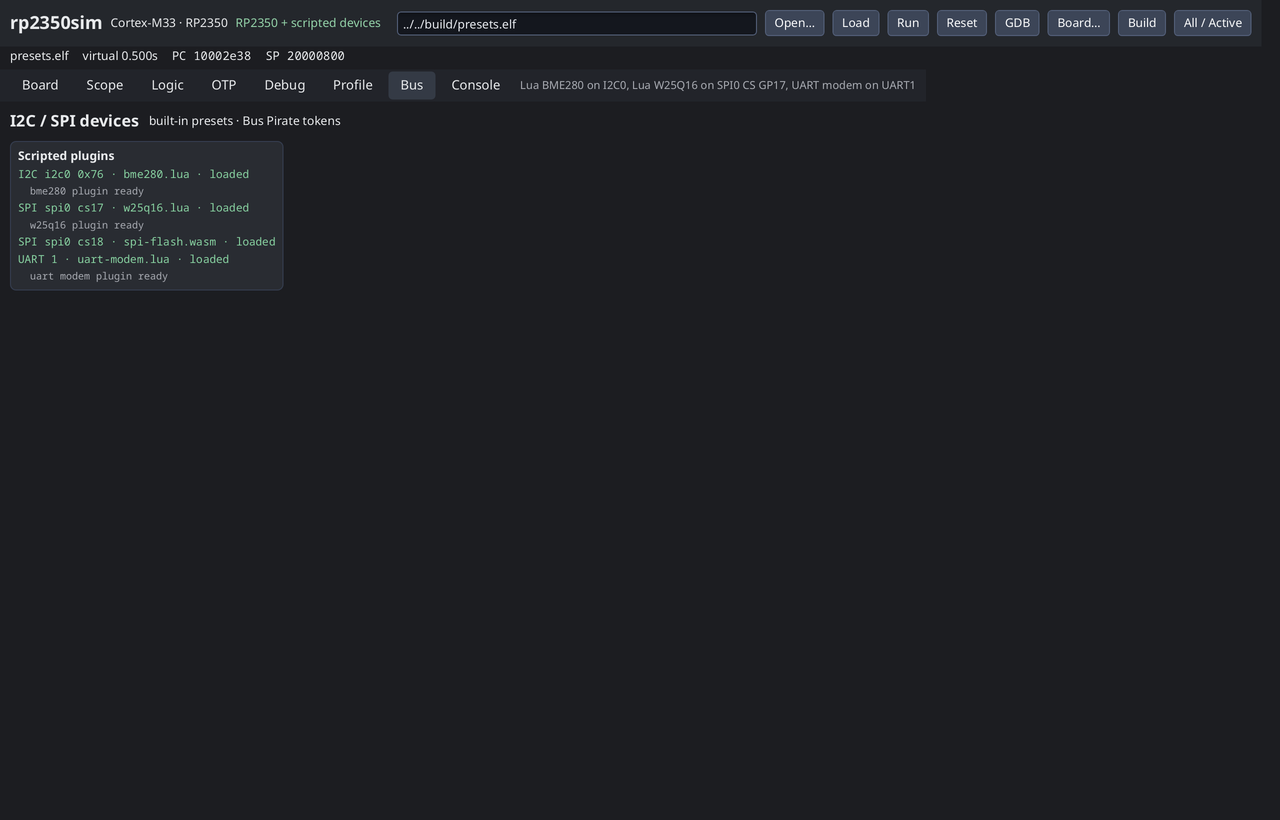
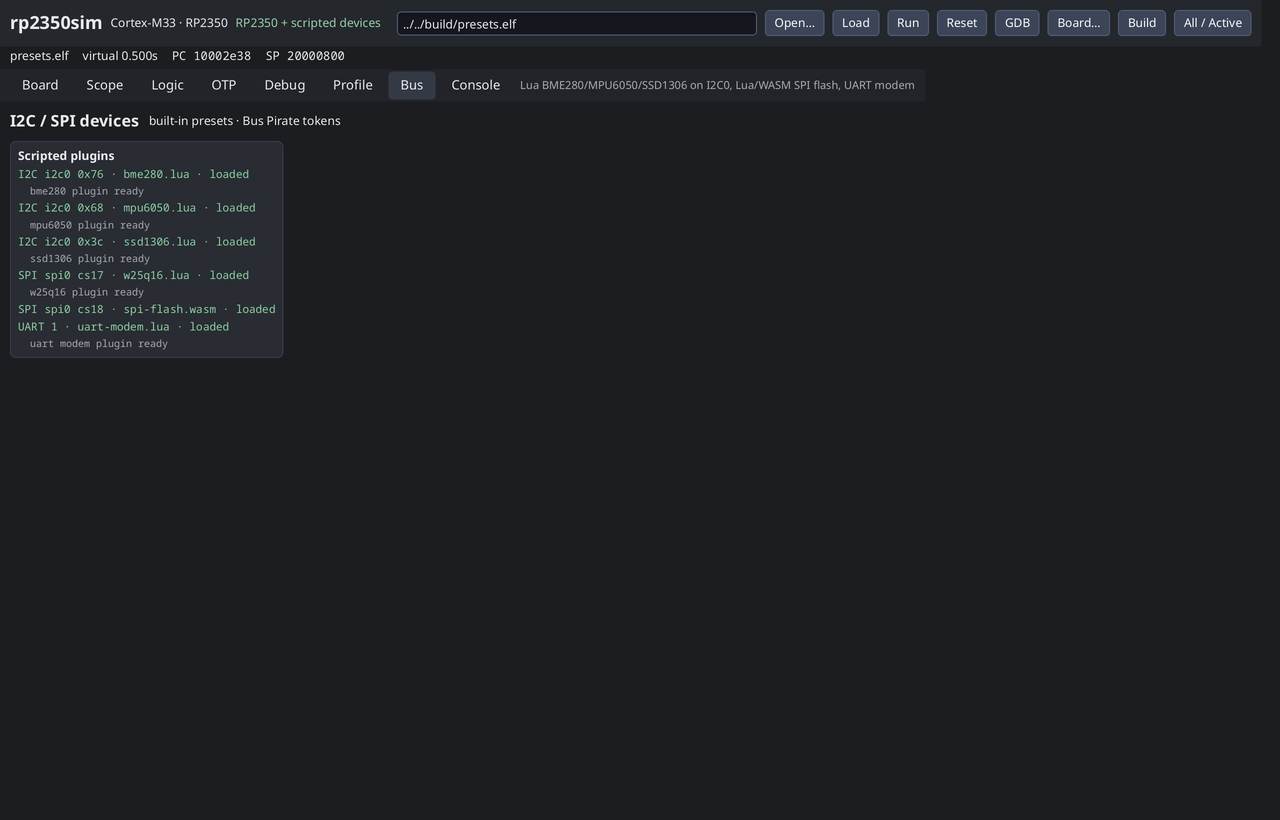
plugins: complete the pico2-plugins preset probe
The presets firmware probes BME280, MPU6050, SSD1306 and W25Q16. The
pico2-plugins board only attached the BME280 and flash, so the two missing
addresses correctly NACKed and the console looked broken.

Add Lua MPU6050 and SSD1306 models at 0x68 and 0x3C, list them on the board,
keep the compiled WASM flash example, and refresh the plugin guide/screenshot.
All four probes now print their IDs.

Changed region(s): [[0.0, 0.2439, 0.2188, 0.4268], [0.4688, 0.0915, 0.7188, 0.122]]

diff --git a/cmd/simui/boards_test.go b/cmd/simui/boards_test.go
@@ -444,7 +444,7 @@ func TestEmbeddedPluginBoard(t *testing.T) {
 	if b == nil {
 		t.Fatal("pico2-plugins board is missing")
 	}
-	if len(b.I2CPlugins) != 1 || len(b.SPIPlugins) != 2 || len(b.UARTPlugins) != 1 {
+	if len(b.I2CPlugins) != 3 || len(b.SPIPlugins) != 2 || len(b.UARTPlugins) != 1 {
 		t.Fatalf("plugins = %d/%d/%d", len(b.I2CPlugins), len(b.SPIPlugins), len(b.UARTPlugins))
 	}
 	if b.I2CPlugins[0].Addr != 0x76 || b.SPIPlugins[0].CS != 17 {

diff --git a/plugins/examples/README.md b/plugins/examples/README.md
@@ -3,6 +3,8 @@
 These files are loaded by `pico2-plugins` and by the task examples.
 
 - `bme280.lua` — a small register-pointer I2C sensor with chip id `0x60`.
+- `mpu6050.lua` — WHO_AM_I `0x68` and a register pointer.
+- `ssd1306.lua` — an I2C command/data acceptor for the display-on probe.
 - `w25q16.lua` — SPI NOR JEDEC ID (`EF 40 15`) and status probe.
 - `uart-modem.lua` — an AT-style serial companion; `print`/`uart_send` show
   the request/response shape for an nRF5340-style mock.

diff --git a/docs/boards-yaml.md b/docs/boards-yaml.md
@@ -571,6 +571,7 @@ boards:
       - { bus: 0, preset: bme280, addr: 0x76 }
     i2c_plugins:
       - { bus: 0, addr: 0x77, file: plugins/examples/bme280.lua }
+      - { bus: 0, addr: 0x68, file: plugins/examples/mpu6050.lua }
     ws2812:
       pin: 4
 

diff --git a/docs/plugins.md b/docs/plugins.md
@@ -17,7 +17,8 @@ radio as a file.
 
 ## Quick start
 
-The built-in `pico2-plugins` board loads three Lua examples:
+The built-in `pico2-plugins` board loads the Lua examples and a compiled WASM
+flash:
 
 ```sh
 task ui:plugins
